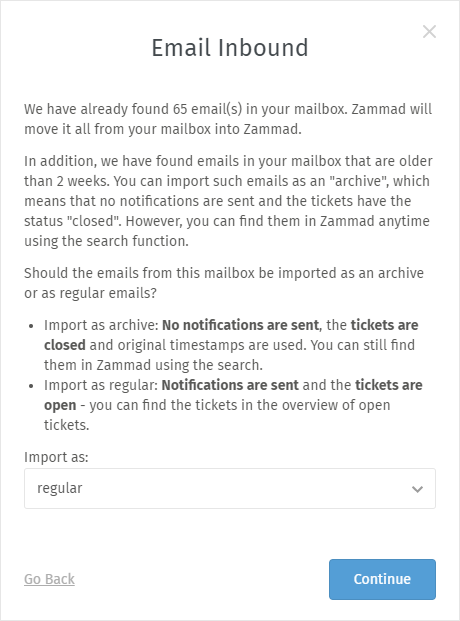
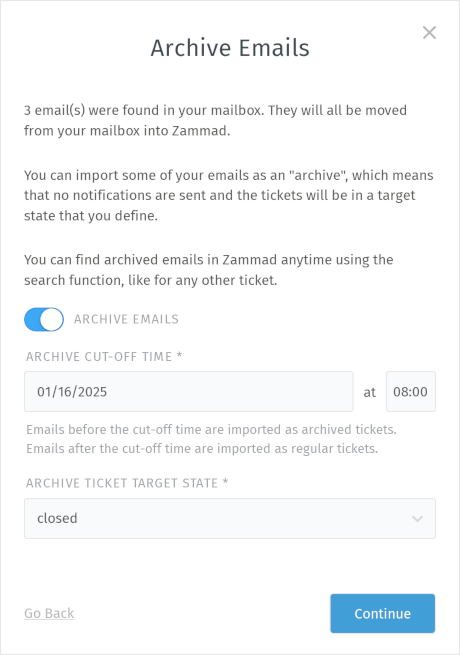
Fixes #742 - Added email archive mode

diff --git a/channels/email/accounts/archive-mode.rst b/channels/email/accounts/archive-mode.rst
@@ -1,0 +1,36 @@
+
+.. figure:: /images/channels/email/account-setup-archive-import.png
+   :alt: Archive Mode dialog during email account setup
+   :align: center
+   :scale: 100%
+
+   How should old emails be imported?
+
+During the process of setting up an email based channel, Zammad checks if emails
+are present in the inbox. If Zammad detects at least one email, the archive
+mode dialog is triggered and the archive mode is turned on by default.
+This dialog is also present if you edit an existing email based channel.
+The archive mode lets you:
+
+- Set an archive **cut-off time**, which means: older emails are imported in
+  archive mode, newer ones as standard tickets (including auto-reply messages
+  and in state "new").
+- Select a **target state** for the archived emails: in most cases you might
+  want to import these archived emails in "closed" state. However, if your
+  use case is different, you can choose another one which fits for you.
+
+By archiving emails, their creation date and time is preserved and no automatic
+actions (e.g. trigger with auto-reply) will take place. If imported
+as regular tickets, the date and time is always the time of the import.
+
+To import all emails as regular tickets, just turn the archive mode toggle off.
+
+.. danger::
+   If you turn off the archive mode, Zammad treats **all emails** (even old ones)
+   as if they had been sent today. This means senders will receive
+   auto-replies and tickets are created with state "new" for each message.
+
+If you want to differentiate even more, you have to do it manually and
+disable things like :doc:`triggers </manage/trigger>` before adding an email
+account, depending on your use case.
+

diff --git a/channels/email/accounts/account-setup.rst b/channels/email/accounts/account-setup.rst
@@ -193,33 +193,9 @@ Keep messages on server
 
    .. _email-experts-import-as:
 
-Import as
-   .. figure:: /images/channels/email/account-setup-archive-import.png
-      :alt: “Import as” option in email account setup dialog
-      :align: center
-      :width: 40%
+Archive Mode
+   .. include:: ./archive-mode.rst
 
-      How should old emails be imported?
-
-   During the import process, Zammad treats **all messages**
-   (including ones you've already read from months or years ago)
-   as if they had been sent today:
-   senders will receive auto-replies and tickets are created with state "new"
-   for each message.
-
-   Use this option to disable this behavior for messages more than two weeks
-   old.
-
-   .. note:: This option may not be shown if:
-
-      * all messages in your inbox are less than two weeks old
-      * you selected **Keep messages on server: Yes**
-      * you selected **Type: POP3**
-
-      For more fine-grained control,
-      manually disable this and other :doc:`triggers </manage/trigger>`
-      before adding an email account,
-      then turn them back on once all your messages have been imported.
 
 Email Outbound
 ^^^^^^^^^^^^^^

diff --git a/channels/microsoft365-graph/accounts.rst b/channels/microsoft365-graph/accounts.rst
@@ -134,9 +134,13 @@ After that, Zammad will ask you to assign a destination group. Select a group
 which should (initially) handle the incoming tickets of this channel. You can
 also specify a folder from which Zammad should fetch emails from. If you do so,
 make sure that the emails are routed to this folder somehow. Otherwise you won't
-receive tickets. Leave it empty to fetch all emails from the inbox. Finally,
-choose if fetched emails should remain on the server or not and confirm by
-clicking the **Save** button.
+receive tickets. Leave it empty to fetch all emails from the inbox. After that,
+choose if fetched emails should remain on the server or not.
+
+Depending if there are already email messages in this account, the archive mode
+dialog may be shown.
+
+.. include:: /channels/email/accounts/archive-mode.rst
 
 Now your channel is ready and can be used! If something doesn't work, have
 a look at the :doc:`common errors section <common-errors>`, where you can

diff --git a/channels/microsoft365/accounts/account-setup.rst b/channels/microsoft365/accounts/account-setup.rst
@@ -151,6 +151,9 @@ Keep messages on server
       to clean out your inbox from time to time
       to keep it below its storage limit.
 
+Archive Mode
+   .. include:: /channels/email/accounts/archive-mode.rst
+
 After adding the account
    After successfully adding the Microsoft 365 mail account, you can adjust
    the default group Zammad is going to assign incoming new tickets to.

diff --git a/channels/google/basic-setup.rst b/channels/google/basic-setup.rst
@@ -171,6 +171,8 @@ Keep messages on server
       to clean out your inbox from time to time
       to keep it below its storage limit.
 
+Archive Mode
+   .. include:: /channels/email/accounts/archive-mode.rst
 
 After successfully adding the Google account, you can adjust
 the default group Zammad is going to assign incoming new tickets to.
